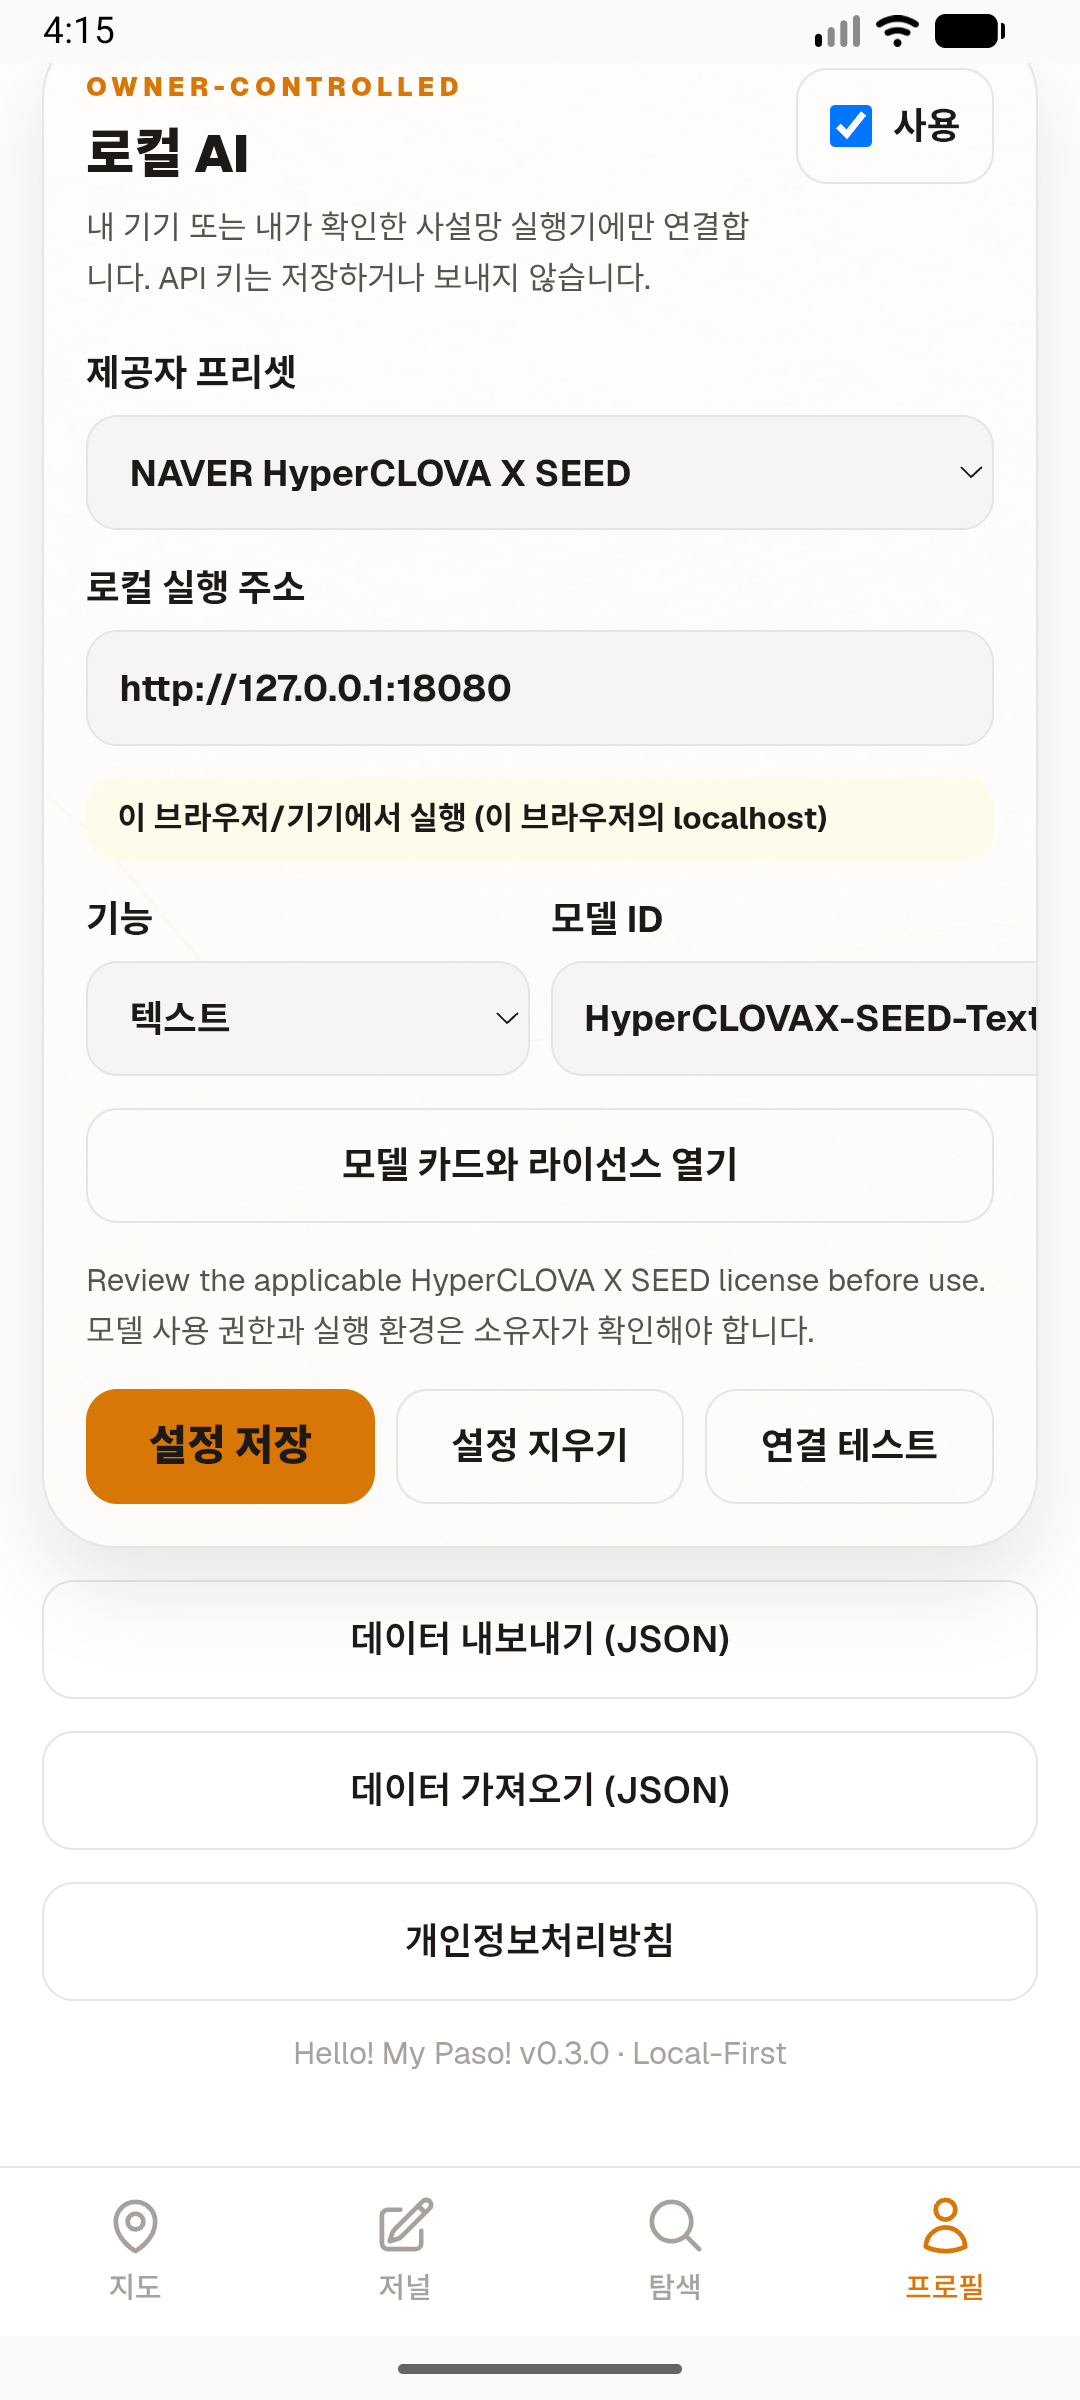
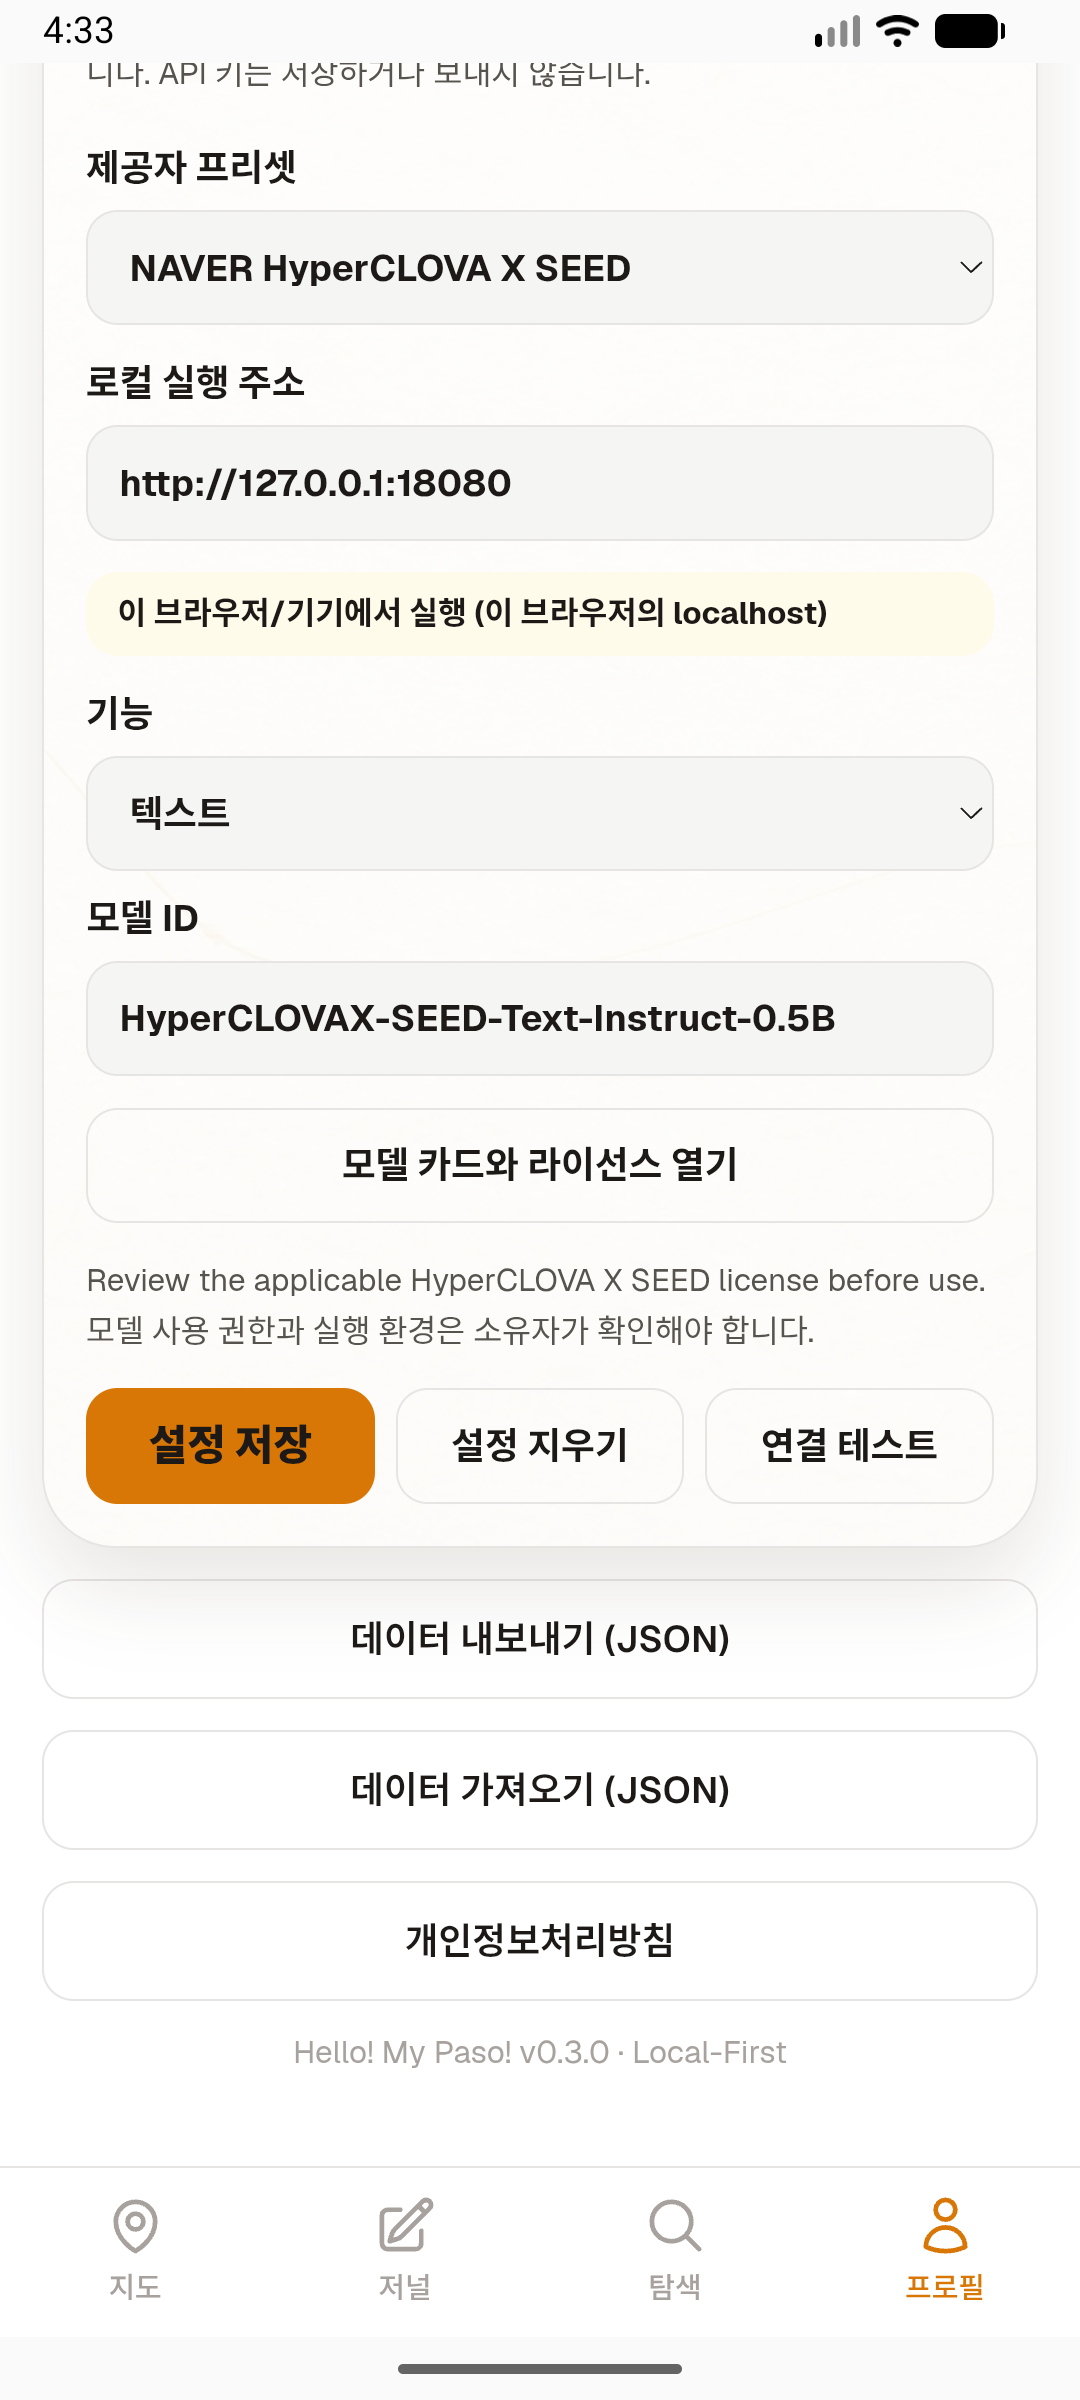
fix: fit local AI model ID on phones

Changed region(s): [[0.0611, 0.0, 0.7639, 0.3438], [0.0917, 0.375, 0.9472, 0.4375], [0.7639, 0.0312, 0.8861, 0.0625]]

diff --git a/src/components/ai/LocalAISettings.tsx b/src/components/ai/LocalAISettings.tsx
@@ -222,7 +222,7 @@ export function LocalAISettings({ onToast }: LocalAISettingsProps) {
         </label> : null}
         {endpointMessage ? <p role="alert" className="text-xs leading-relaxed" style={{ color: "var(--warning)" }}>{endpointMessage}</p> : null}
 
-        <div className="grid grid-cols-2 gap-2">
+        <div className="grid grid-cols-1 gap-2 sm:grid-cols-2">
           <label className="grid gap-1.5 text-sm font-bold" style={{ color: "var(--text-primary)" }}>
             기능
             <select value={draft.capability} onChange={(event) => changeCapability(event.target.value as LocalAICapability)} className="min-h-11 rounded-xl border px-3 text-sm" style={{ borderColor: "var(--border)", backgroundColor: "var(--bg-secondary)", color: "var(--text-primary)" }}>
@@ -230,12 +230,12 @@ export function LocalAISettings({ onToast }: LocalAISettingsProps) {
               <option value="vision">텍스트 + 사진</option>
             </select>
           </label>
-          <label className="grid gap-1.5 text-sm font-bold" style={{ color: "var(--text-primary)" }}>
+          <label className="grid min-w-0 gap-1.5 text-sm font-bold" style={{ color: "var(--text-primary)" }}>
             모델 ID
             <input value={draft.model} onChange={(event) => {
               draftDirtyRef.current = true;
               setDraft((current) => ({ ...current, model: event.target.value }));
-            }} className="min-h-11 rounded-xl border px-3 text-sm" style={{ borderColor: "var(--border)", backgroundColor: "var(--bg-secondary)", color: "var(--text-primary)" }} />
+            }} className="min-h-11 min-w-0 w-full rounded-xl border px-3 text-sm" style={{ borderColor: "var(--border)", backgroundColor: "var(--bg-secondary)", color: "var(--text-primary)" }} />
           </label>
         </div>
 

diff --git a/tests/unit/local-ai-ui.test.tsx b/tests/unit/local-ai-ui.test.tsx
@@ -481,6 +481,16 @@ describe("LocalAISettings", () => {
     expect(screen.getByRole("option", { name: /SK Telecom A.X/ })).toBeInTheDocument();
   });
 
+  it("gives the model-ID editor a full phone row before switching to two columns", () => {
+    render(<LocalAISettings onToast={vi.fn()} />);
+
+    const modelInput = screen.getByLabelText("모델 ID");
+    expect(modelInput).toHaveClass("w-full");
+    expect(modelInput).toHaveClass("min-w-0");
+    expect(modelInput.closest("div")).toHaveClass("grid-cols-1");
+    expect(modelInput.closest("div")).toHaveClass("sm:grid-cols-2");
+  });
+
   it("keeps a user-dirty draft when delayed saved-settings hydration arrives", async () => {
     const pendingLoad = deferred<ReturnType<typeof savedSettings> | null>();
     vi.spyOn(localAIPreferences, "loadLocalAISettings").mockReturnValue(pendingLoad.promise);

diff --git a/docs/mobile/closed-test/evidence/report-0.3.0.md b/docs/mobile/closed-test/evidence/report-0.3.0.md
@@ -4,7 +4,7 @@ Candidate: `0.3.0` (`versionCode 6`)
 
 ## Candidate metadata
 
-- Verified release HEAD: `a24b273`
+- Release base: `a24b273`; this evidence includes the final responsive model-ID and screenshot correction after that base.
 - Verification window: 2026-08-11 00:49–01:19 KST
 - Package: `com.mypaso.app`
 - Android manifest: `versionCode 6`, `versionName 0.3.0`, `targetSdkVersion 36`
@@ -15,7 +15,7 @@ Candidate: `0.3.0` (`versionCode 6`)
 
 | Gate | Command or observation | Observed evidence | Status |
 |---|---|---|---|
-| Full unit test suite | `npm test` | 287 tests across 32 files passed, exit 0 | Passed |
+| Full unit test suite | `npm test` | 288 tests across 32 files passed, exit 0 | Passed |
 | Typecheck | `npx tsc --noEmit` | exit 0 | Passed |
 | Dependency audits | `npm audit --audit-level=high` and production audit | full 0 advisories; production 0 advisories | Passed |
 | Lint | `npm run lint` | exit 0 | Passed |
@@ -25,19 +25,19 @@ Candidate: `0.3.0` (`versionCode 6`)
 | Android JVM tests | Gradle release verification | 10 / 10 passed, exit 0 | Passed |
 | Android lint | `:app:lintRelease` | `No issues found`, exit 0 | Passed |
 | Android connected tests | API 36 connected verification | 3 / 3 passed, exit 0 | Passed |
[5 lines of base64/hex data omitted]
 | Android package inspection | `aapt2` | package `com.mypaso.app`, version 6 / `0.3.0`, target 36 | Passed |
 | Android runtime QA | signed APK upgraded on `Medium_Phone_API_36.1` and Android 16 tablet AVD | required flows and screenshots completed | Passed |
-| Store screenshots | final files inspected | five files; phone 1080 × 2400, tablet 2560 × 1440 | Passed |
+| Store screenshots | final files inspected | five files; phone 1080 × 2400, tablet 2560 × 1440; Profile shows the full model ID and tablet app frame has no launcher dock | Passed |
 | Scope and secret scan | `git diff --check`, tracked-key extension scan, guarded credential-pattern scan | diff check exit 0; 0 tracked key/keystore files; only four expected identifier/documentation references and no credential values | Passed |
 | Play closed-test upload | Play Console | versionCode 6 availability, policy answers, upload and submission still pending | Pending |
 | GitHub publication | tag, push, GitHub Release | not yet performed | Pending |
 
 ### Signing-verification qualification
 
-Strict `jarsigner` returned exit 4 only for the expected self-signed upload-certificate and missing-timestamp warnings. Normal `jarsigner` verification completed with exit 0 and reported the JAR verified. This does not claim timestamped or CA-chain signing.
+Normal `jarsigner` verification completed with exit 0 and reported the JAR verified. Strict `jarsigner` returned exit 4 because the self-signed upload certificate has an invalid PKIX chain; missing timestamp and POSIX-permission/symlink attributes were warnings, not the signer error. This does not claim timestamped or CA-chain signing.
 
 ## Android runtime QA observations
 
